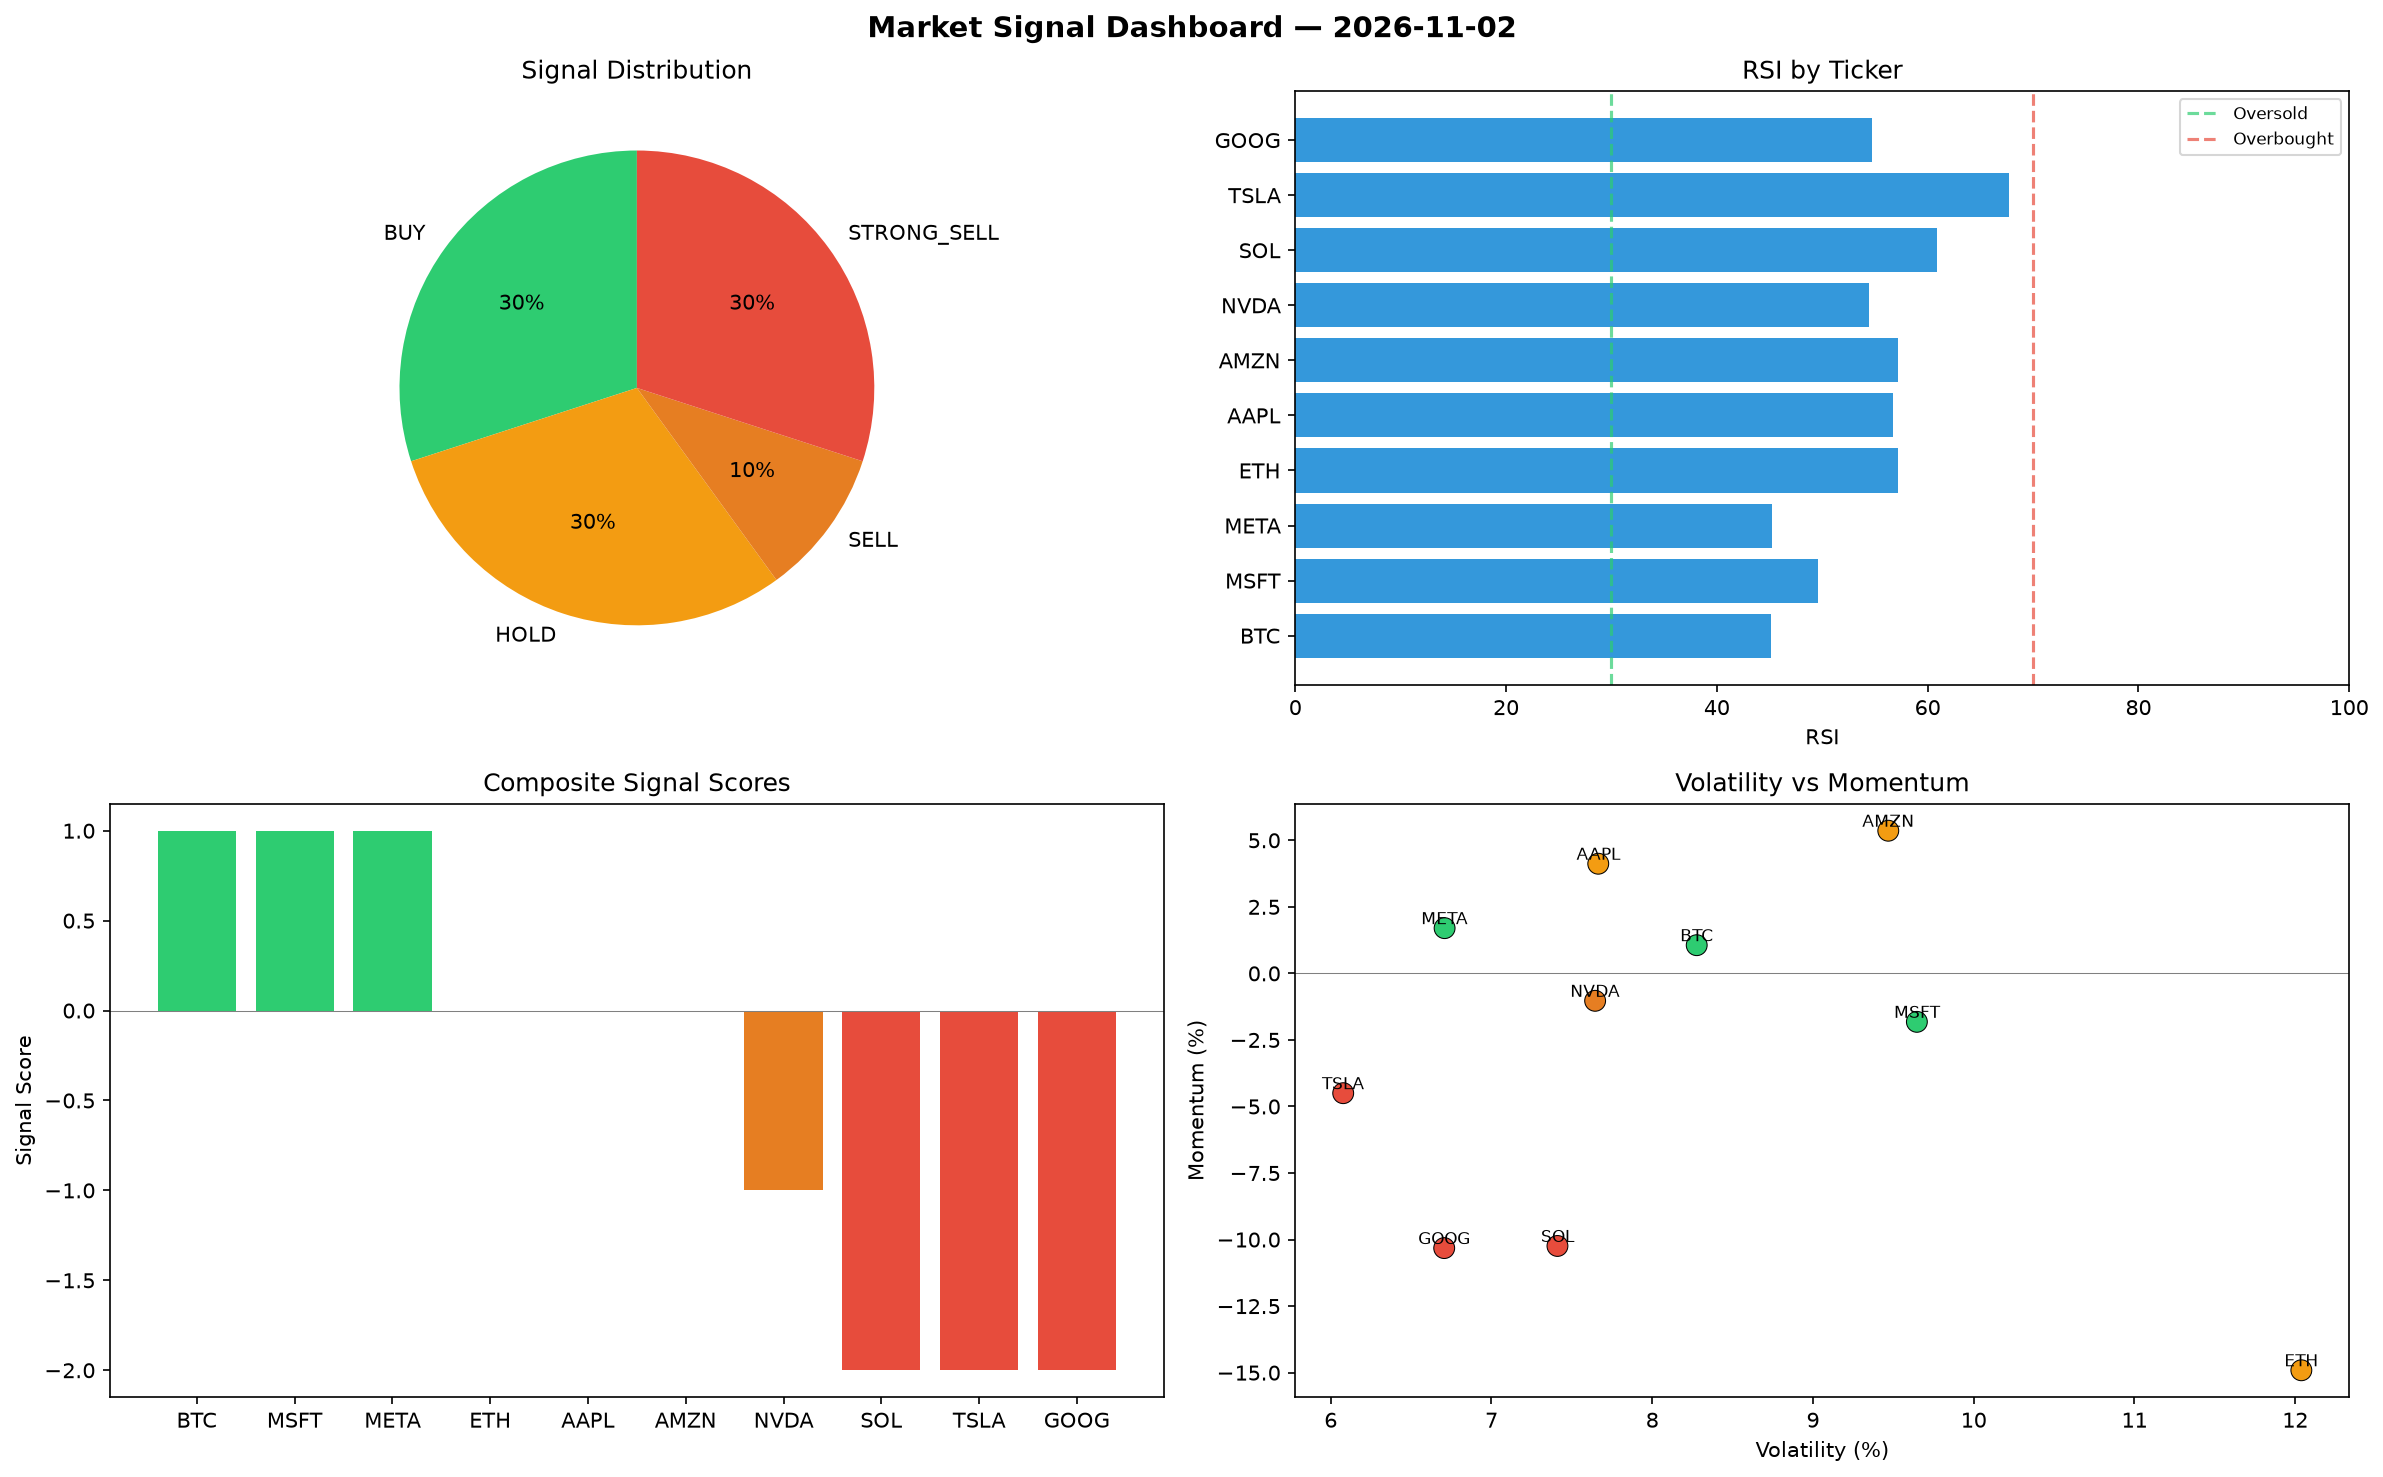
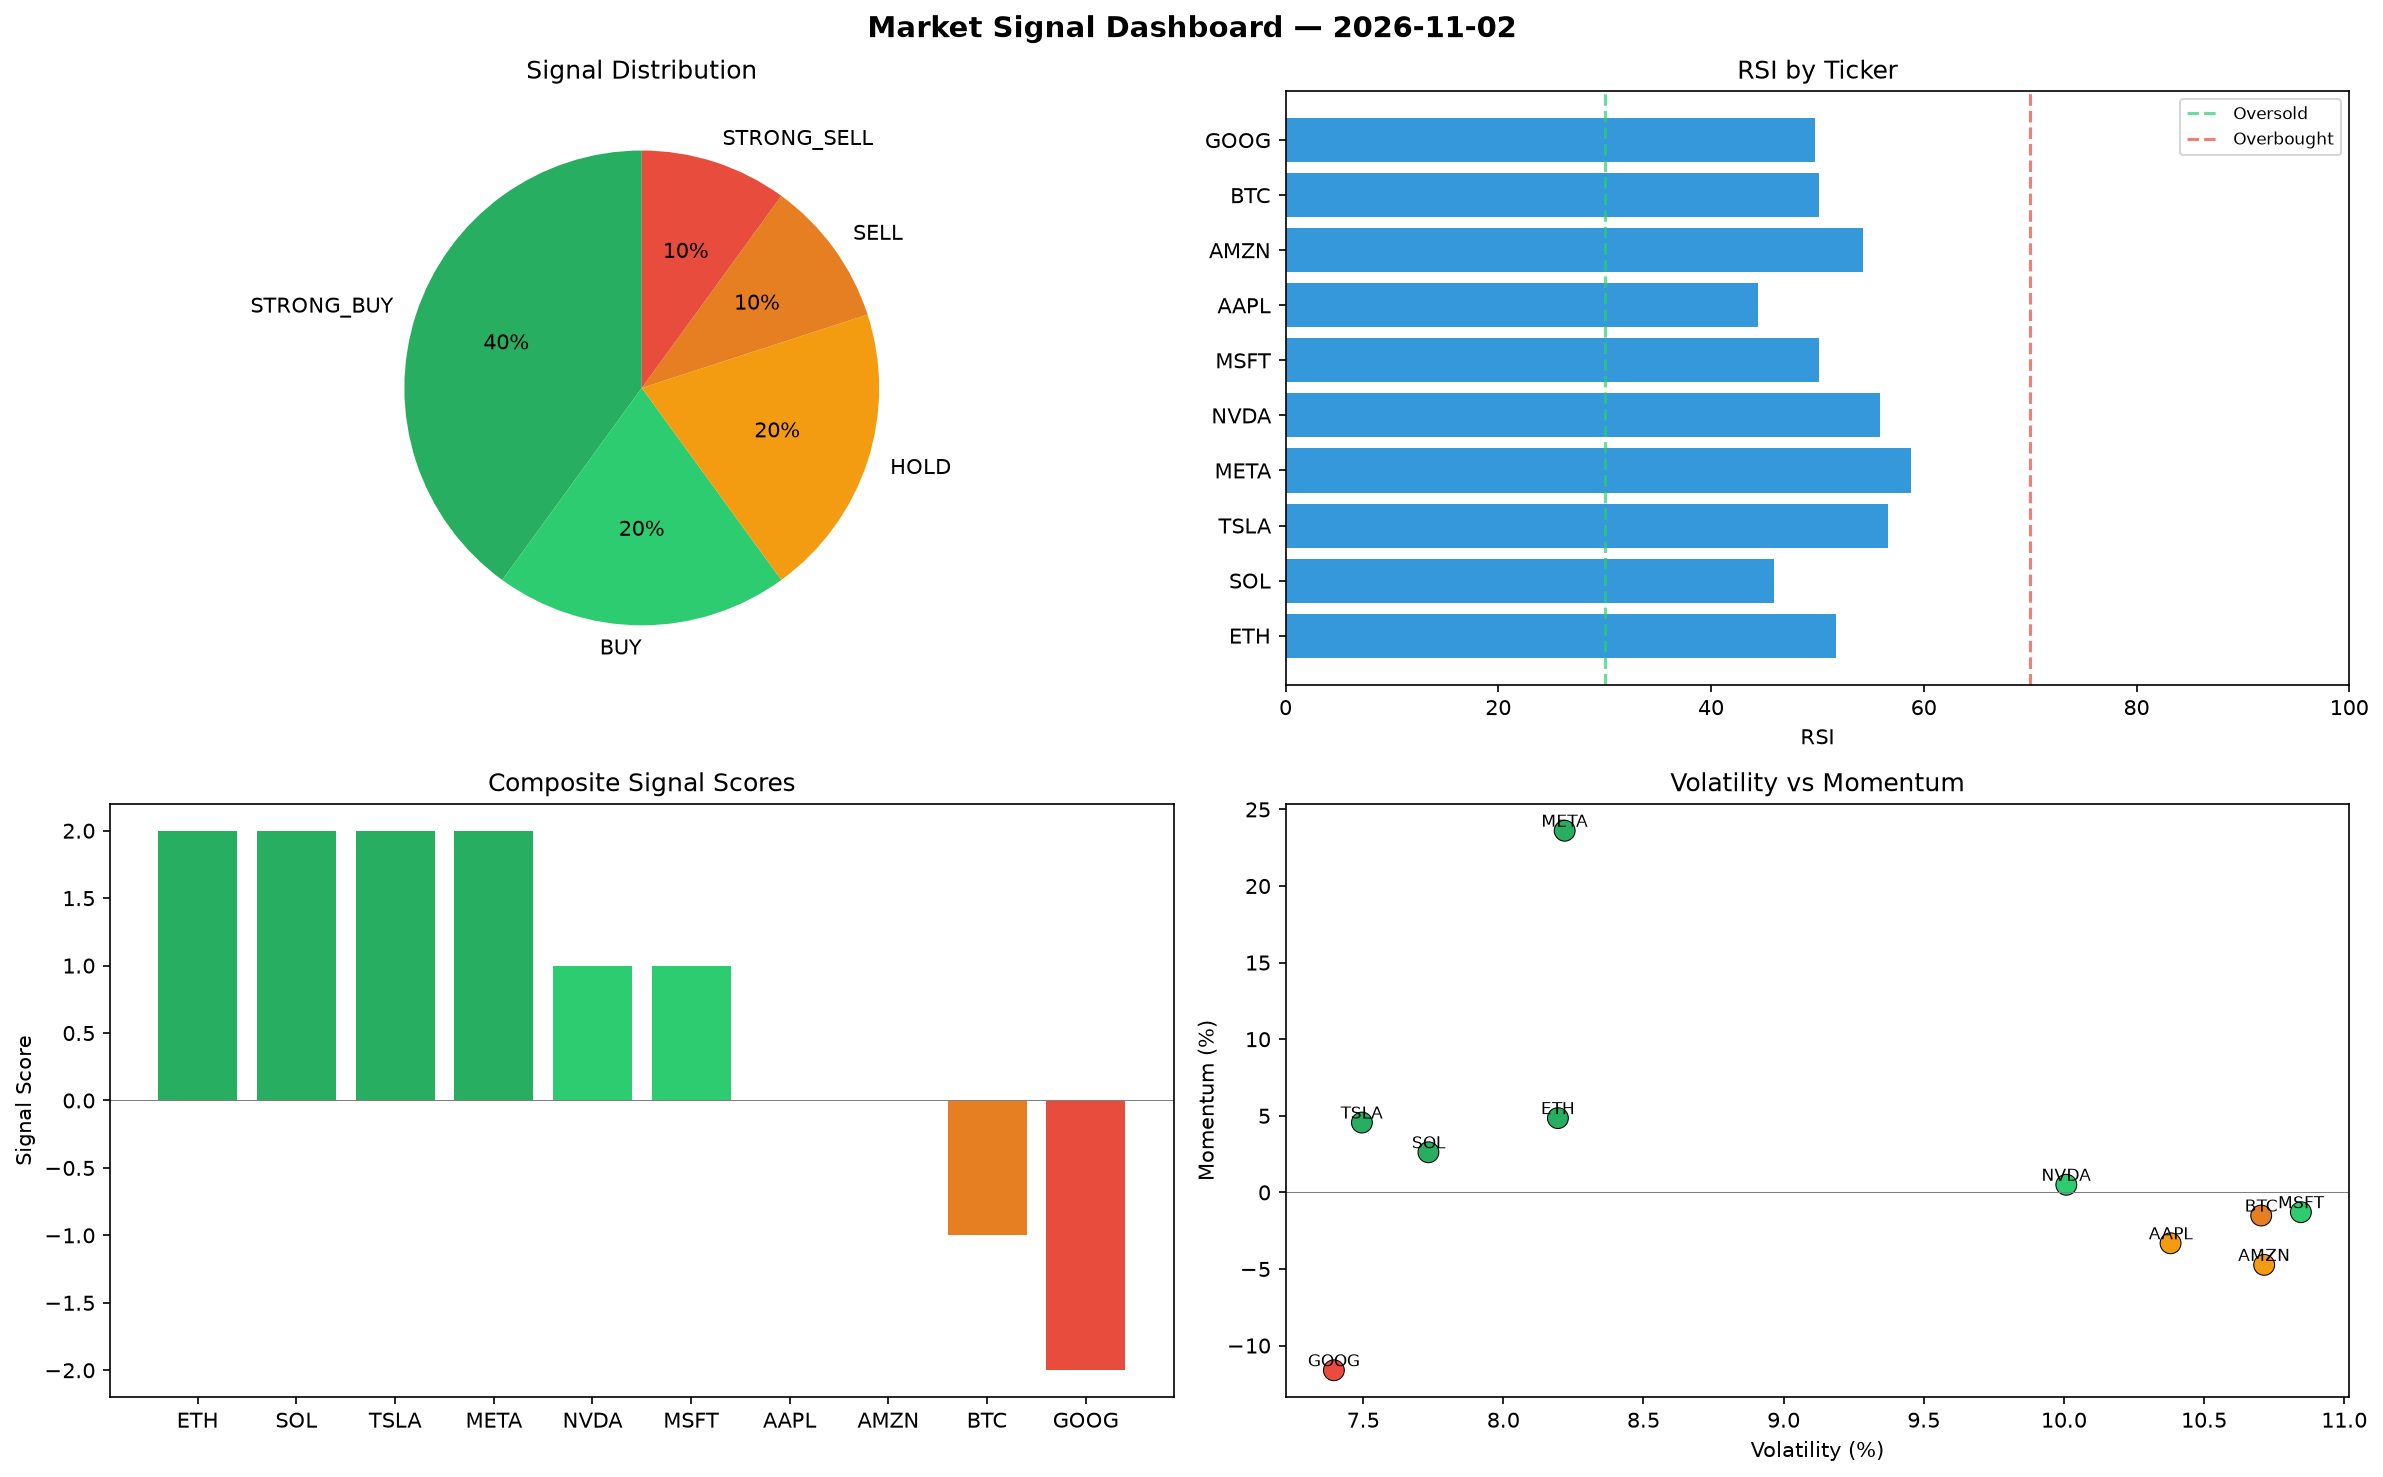
automated-bots: market signals 2026-11-02T18:38

diff --git a/logs/2026-11-02.md b/logs/2026-11-02.md
@@ -1,6 +1,6 @@
 # Market Signal Report — 2026-11-02
 
-**Run ID:** `fd85dc1351` | **Buy:** 3 | **Sell:** 4 | **Hold:** 3
+**Run ID:** `d8482c96b3` | **Buy:** 6 | **Sell:** 2 | **Hold:** 2
 
 ![Dashboard](2026-11-02_dashboard.png)
 
@@ -8,28 +8,28 @@
 
 | Ticker | Price | Signal | Score | RSI | Momentum | Confidence |
 |--------|-------|--------|-------|-----|----------|------------|
-| BTC | $4704.91 | **BUY** | 1 | 45.12 | 0.0106 | 0.25 |
-| MSFT | $3949.34 | **BUY** | 1 | 49.62 | -0.0182 | 0.25 |
-| META | $3460.07 | **BUY** | 1 | 45.25 | 0.017 | 0.25 |
-| ETH | $4836.98 | **HOLD** | 0 | 57.22 | -0.1491 | 0.0 |
-| AAPL | $587.93 | **HOLD** | 0 | 56.75 | 0.0412 | 0.0 |
-| AMZN | $1521.59 | **HOLD** | 0 | 57.18 | 0.0536 | 0.0 |
-| NVDA | $4134.97 | **SELL** | -1 | 54.46 | -0.0103 | 0.25 |
-| SOL | $3833.09 | **STRONG_SELL** | -2 | 60.93 | -0.1024 | 0.5 |
-| TSLA | $3324.35 | **STRONG_SELL** | -2 | 67.72 | -0.045 | 0.5 |
-| GOOG | $2318.41 | **STRONG_SELL** | -2 | 54.71 | -0.1032 | 0.5 |
+| ETH | $2182.27 | **STRONG_BUY** | 2 | 51.79 | 0.0485 | 0.5 |
+| SOL | $367.78 | **STRONG_BUY** | 2 | 45.95 | 0.0262 | 0.5 |
+| TSLA | $1125.78 | **STRONG_BUY** | 2 | 56.65 | 0.0456 | 0.5 |
+| META | $4191.77 | **STRONG_BUY** | 2 | 58.79 | 0.2361 | 0.5 |
+| NVDA | $931.83 | **BUY** | 1 | 55.85 | 0.005 | 0.25 |
+| MSFT | $3125.36 | **BUY** | 1 | 50.16 | -0.0129 | 0.25 |
+| AAPL | $882.78 | **HOLD** | 0 | 44.45 | -0.0332 | 0.0 |
+| AMZN | $4663.59 | **HOLD** | 0 | 54.31 | -0.0473 | 0.0 |
+| BTC | $371.5 | **SELL** | -1 | 50.14 | -0.0151 | 0.25 |
+| GOOG | $1665.76 | **STRONG_SELL** | -2 | 49.77 | -0.1161 | 0.5 |
 
 ## Delta vs Yesterday
 
 | Ticker | Today | Yesterday | Price Change | Signal Changed |
 |--------|-------|-----------|-------------|----------------|
-| BTC | BUY | HOLD | 📈 769.43% | ⚠ YES |
-| MSFT | BUY | STRONG_BUY | 📉 -19.31% | ⚠ YES |
-| META | BUY | STRONG_BUY | 📈 2199.51% | ⚠ YES |
-| ETH | HOLD | SELL | 📈 215.94% | ⚠ YES |
-| AAPL | HOLD | STRONG_SELL | 📉 -47.55% | ⚠ YES |
-| AMZN | HOLD | HOLD | 📈 438.12% | — |
-| NVDA | SELL | STRONG_SELL | 📈 12.43% | ⚠ YES |
-| SOL | STRONG_SELL | STRONG_BUY | 📉 -18.21% | ⚠ YES |
-| TSLA | STRONG_SELL | HOLD | 📉 -17.74% | ⚠ YES |
-| GOOG | STRONG_SELL | SELL | 📈 49.2% | ⚠ YES |
+| ETH | STRONG_BUY | SELL | 📈 42.54% | ⚠ YES |
+| SOL | STRONG_BUY | STRONG_BUY | 📉 -92.15% | — |
+| TSLA | STRONG_BUY | HOLD | 📉 -72.14% | ⚠ YES |
+| META | STRONG_BUY | STRONG_BUY | 📈 2685.78% | — |
+| NVDA | BUY | STRONG_SELL | 📉 -74.66% | ⚠ YES |
+| MSFT | BUY | STRONG_BUY | 📉 -36.14% | ⚠ YES |
+| AAPL | HOLD | STRONG_SELL | 📉 -21.25% | ⚠ YES |
+| AMZN | HOLD | HOLD | 📈 1549.31% | — |
+| BTC | SELL | HOLD | 📉 -31.35% | ⚠ YES |
+| GOOG | STRONG_SELL | SELL | 📈 7.2% | ⚠ YES |
